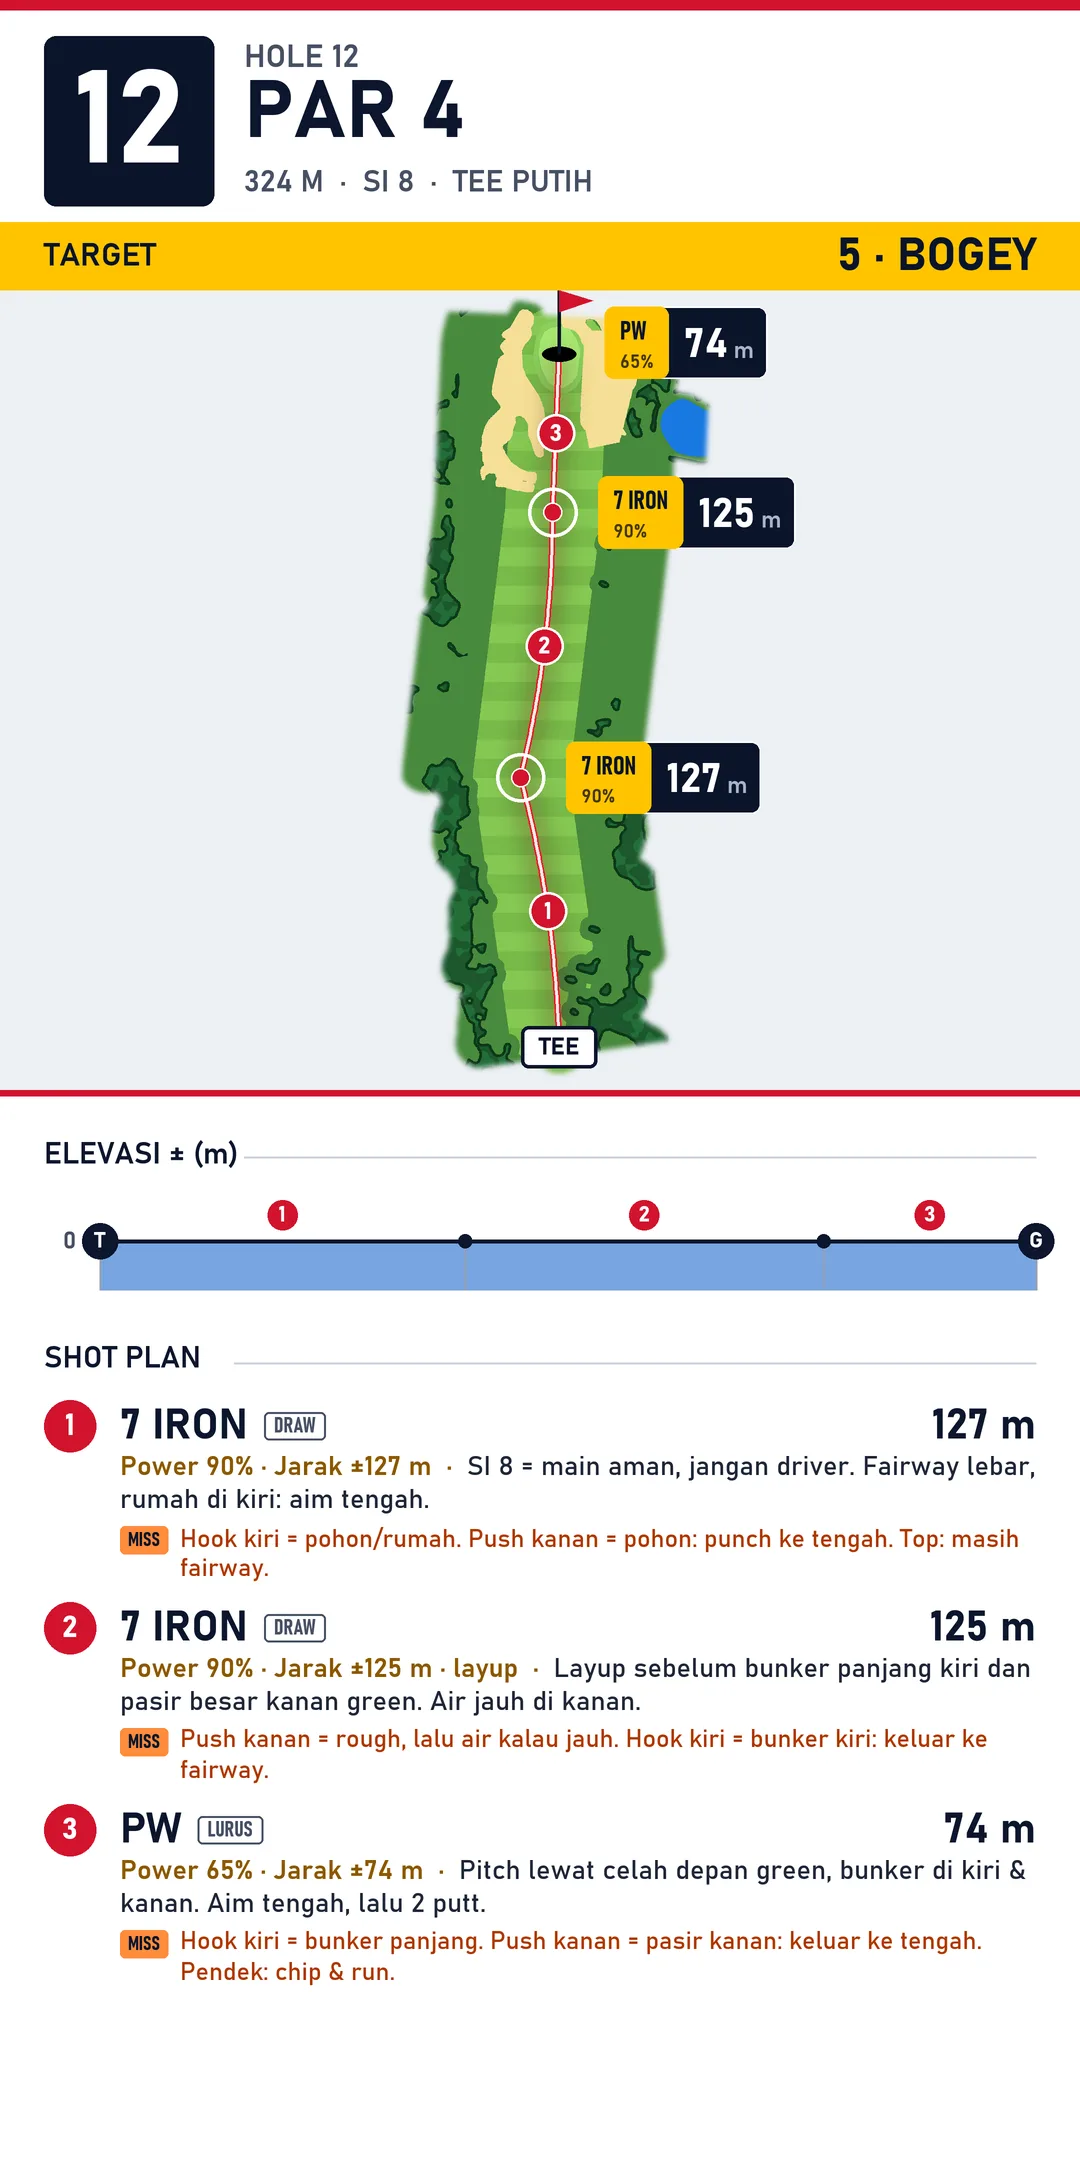
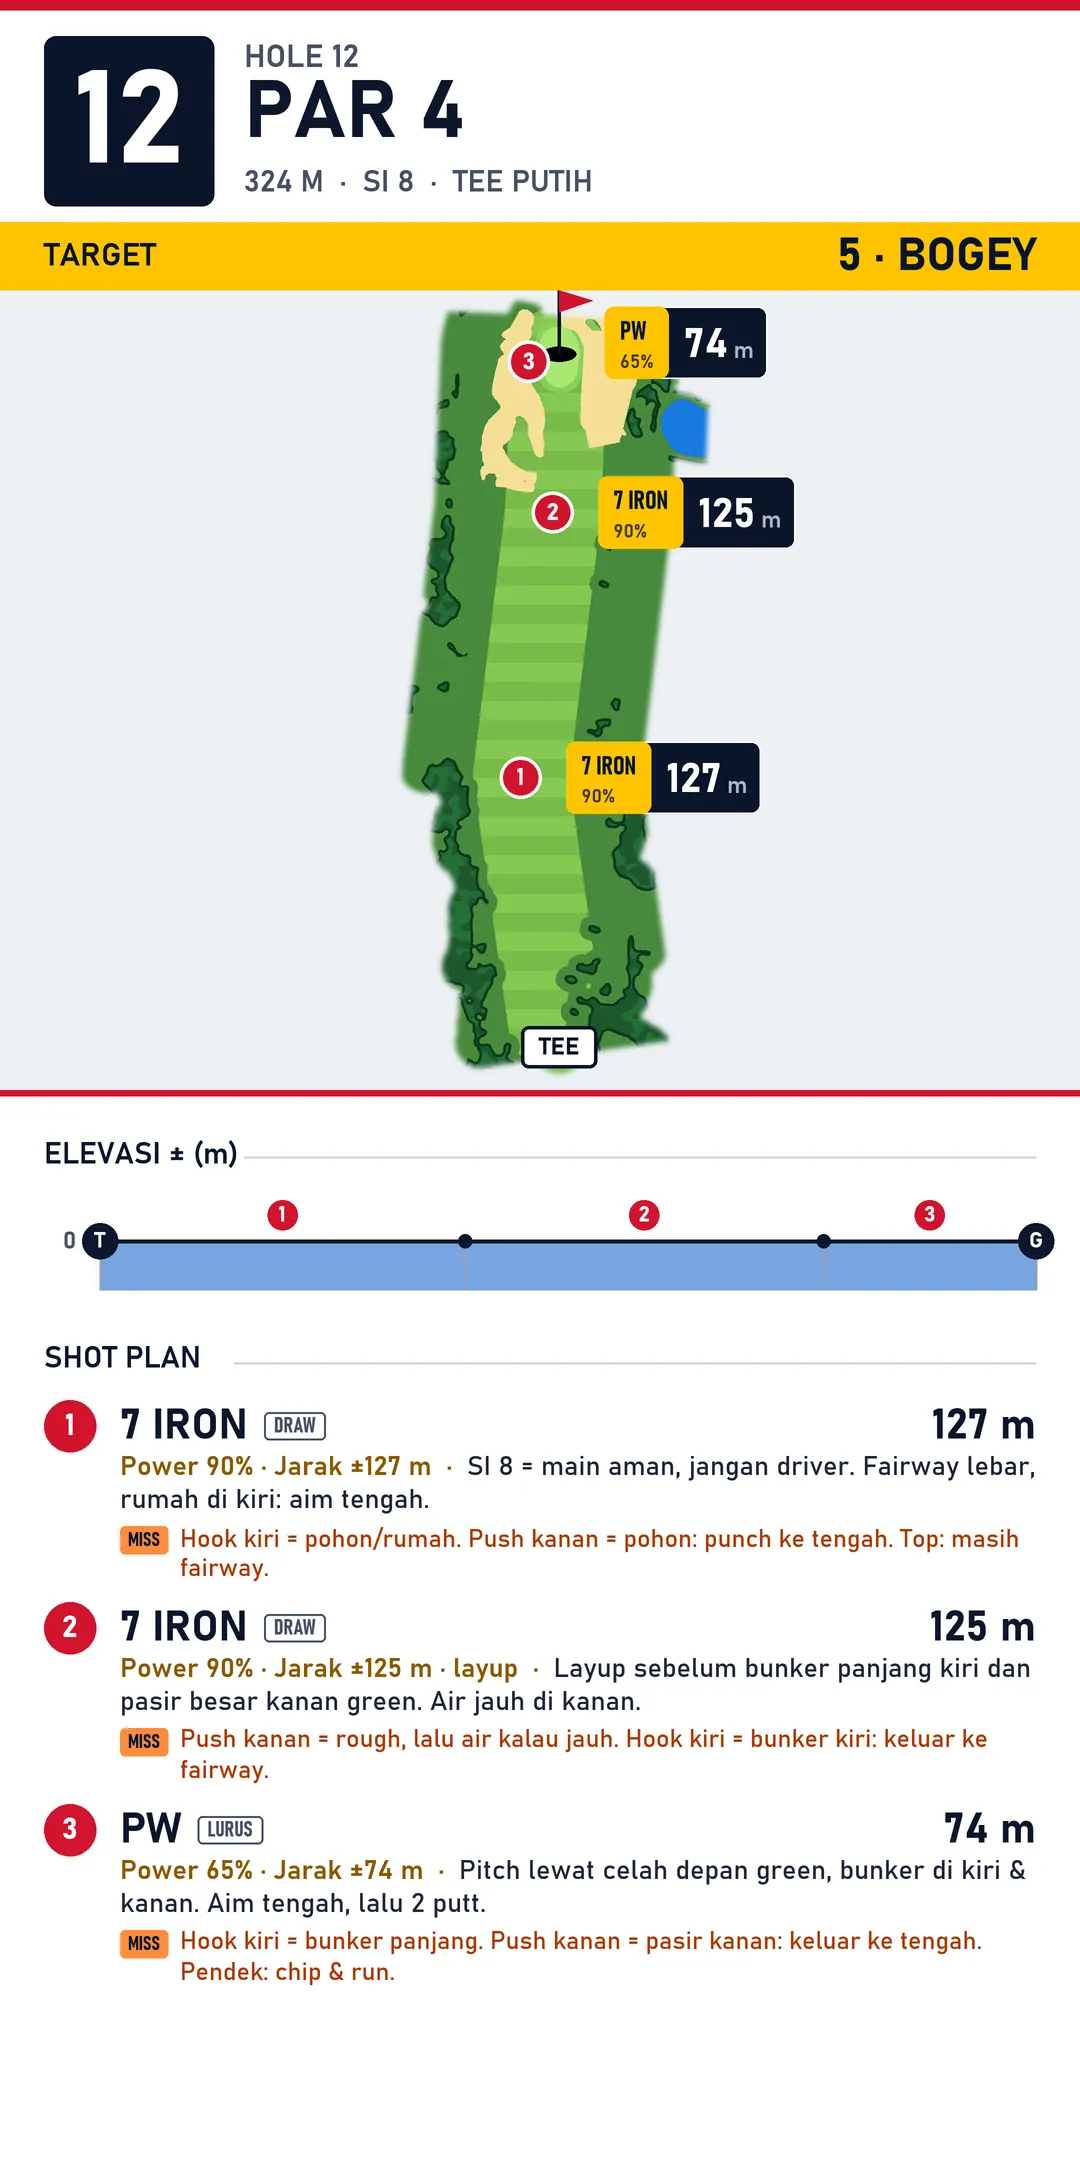
Cleaner map: no red flight lines, shot numbers on landing points, no grid, lighter ring labels

Changed region(s): [[0.4583, 0.1551, 0.55, 0.4963]]

diff --git a/index.html b/index.html
@@ -66,17 +66,14 @@ button{font:inherit;color:inherit}
 #score.ok{border-color:var(--good);color:var(--good)}#score.bad{border-color:var(--over);color:var(--over)}
 .sync{font-size:12px;color:var(--ink2);margin-top:2px;font-weight:600}
 
-/* map overlay: hazard distances, grid, rings, ball */
+/* map overlay: hazard distances, rings, ball */
 .mapwrap{position:relative;width:100%;max-width:560px}
 .ov{position:absolute;inset:0;width:100%;height:100%;display:block}
-.ov .gGrid,.ov .gRing,.ov .gHaz{display:none}
-body.t-grid .ov .gGrid,body.t-ring .ov .gRing,body.t-haz .ov .gHaz{display:inline}
-.gGrid{filter:drop-shadow(0 0 1.5px rgba(12,22,45,.85))}
-.gGrid line{stroke:#fff;stroke-opacity:.9;stroke-width:2.5}
-.gGrid line.k{stroke:#ffc400;stroke-opacity:.95;stroke-width:3}
+.ov .gRing,.ov .gHaz{display:none}
+body.t-ring .ov .gRing,body.t-haz .ov .gHaz{display:inline}
 .gRing circle{fill:none;stroke:#ffc400;stroke-width:4;stroke-dasharray:14 10}
 .gRing{filter:drop-shadow(0 0 1.5px rgba(12,22,45,.85))}
-.gl.r{fill:#ffc400;font-size:32px}
+.gl.r{fill:#ffc400;font-weight:600;font-size:24px;stroke-width:3.5px;fill-opacity:.9}
 .gl{font:800 30px var(--f-num);fill:#fff;stroke:#0c162d;stroke-width:7px;paint-order:stroke;stroke-linejoin:round}
 .ovt{font:800 34px var(--f-num);letter-spacing:.02em}
 .ovb{font:800 36px var(--f-num);fill:#0c162d}
@@ -162,7 +159,6 @@ tr.go{cursor:pointer}
   </div>
   <nav class="chips" id="chips" aria-label="Pilih hole"></nav>
   <div class="tools" id="tools">
-    <button class="tool" type="button" data-t="grid" aria-pressed="false">Grid</button>
     <button class="tool" type="button" data-t="ring" aria-pressed="false">Ring</button>
     <button class="tool" type="button" data-t="haz" aria-pressed="false">Jarak</button>
     <div class="hint">Ketuk peta = bola<br>B/A = m ke green</div>
@@ -255,7 +251,7 @@ const slider=$("slider"), chips=$("chips");
    tee/pin/land = posisi di gambar 1080x2160, hz = pusat bunker (B) / air (A), rle = peta bunker/air per kotak 10 px */
 const GEO={"1":{"top":289,"bot":1091,"scale":2.435,"tee":[591,1040],"pin":[591,362],"land":[[488,700],[580,414]],"hz":[["B",614,406],["B",562,612]],"cols":108,"rows":81,"rle":[0,1248,1,2,0,107,1,2,0,1829,1,1,0,107,1,2,0,105,1,3,0,105,1,3,0,106,1,2,0,5126]},"2":{"top":289,"bot":1091,"scale":2.121,"tee":[552,1047],"pin":[552,353],"land":[[536,825],[527,571]],"hz":[["B",476,428],["B",509,721]],"cols":108,"rows":81,"rle":[0,1021,1,1,0,106,1,2,0,106,1,1,0,107,1,1,0,106,1,2,0,105,1,3,0,105,1,2,0,106,1,1,0,2810,1,3,0,106,1,2,0,106,1,2,0,106,1,2,0,106,1,1,0,331,1,1,0,3397]},"3":{"top":289,"bot":1091,"scale":2.166,"tee":[567,1046],"pin":[566,355],"land":[[512,728],[519,504]],"hz":[["A",424,506]],"cols":108,"rows":81,"rle":[0,1016,2,1,0,25,2,1,0,81,2,2,0,106,2,2,0,107,2,1,0,106,2,2,0,105,2,3,0,104,2,4,0,104,2,4,0,103,2,5,0,103,2,5,0,103,2,5,0,102,2,6,0,102,2,5,0,102,2,6,0,101,2,7,0,100,2,6,0,102,2,5,0,103,2,4,0,104,2,3,0,105,2,1,0,5686]},"4":{"top":289,"bot":1091,"scale":2.721,"tee":[436,1035],"pin":[436,371],"land":[[643,686],[534,425]],"hz":[["B",476,432],["A",416,502],["B",718,619],["A",437,826],["A",414,965]],"cols":108,"rows":81,"rle":[0,31,2,2,0,105,2,6,0,102,2,5,0,103,2,5,0,2,2,1,0,8,1,2,0,90,2,5,0,1,2,3,0,7,1,2,0,90,2,9,0,7,1,2,0,90,2,9,0,100,2,8,0,103,2,5,0,104,2,3,0,105,2,3,0,105,2,3,0,105,2,4,1,8,0,96,2,4,1,10,0,94,2,4,0,4,1,7,0,93,2,5,0,7,1,2,0,94,2,10,0,99,2,11,0,97,2,11,0,97,2,13,0,15,1,1,0,79,2,14,0,94,2,15,0,94,2,15,0,93,2,15,0,93,2,10,0,98,2,8,0,101,2,6,0,103,2,4,0,104,2,4,0,105,2,2,0,106,2,2,0,136,1,3,0,105,1,4,0,104,1,4,0,103,1,4,0,104,1,3,0,105,1,2,0,940,2,2,0,106,2,2,0,105,2,4,0,104,2,5,0,103,2,7,0,3,2,2,0,97,2,12,0,96,2,12,0,96,2,11,0,97,2,11,0,97,2,10,0,98,2,9,0,98,2,9,0,99,2,8,0,99,2,9,0,100,2,8,0,100,2,7,0,101,2,7,0,101,2,7,0,100,2,8,0,100,2,8,0,100,2,8,0,100,2,8,0,100,2,9,0,99,2,9,0,100,2,7,0,101,2,6,0,101,2,7,0,101,2,3,0,105,2,3,0,105,2,3,0,716]},"5":{"top":289,"bot":1091,"scale":4.842,"tee":[540,992],"pin":[540,435],"land":[],"hz":[["B",604,309],["A",695,343],["B",590,483],["A",433,511],["A",651,574],["A",454,664],["B",628,991]],"cols":108,"rows":81,"rle":[0,39,2,5,0,8,1,10,0,4,2,7,0,74,2,5,0,7,1,11,0,4,2,7,0,74,2,5,0,7,1,13,0,2,2,7,0,74,2,5,0,7,1,4,0,4,1,5,0,2,2,7,0,74,2,5,0,22,2,7,0,74,2,5,0,22,2,7,0,74,2,5,0,22,2,7,0,74,2,6,0,21,2,7,0,74,2,7,0,20,2,7,0,73,2,8,0,20,2,7,0,73,2,8,0,100,2,8,0,3,1,1,0,96,2,8,0,100,2,8,0,99,2,9,0,99,2,9,0,3,1,1,0,95,2,9,0,2,1,2,0,96,2,8,0,1,1,5,0,5,1,8,0,1,2,7,0,73,2,9,1,5,0,5,1,7,0,1,2,8,0,74,2,8,0,1,1,4,0,5,1,7,2,9,0,74,2,9,1,4,0,5,1,5,0,1,2,10,0,74,2,10,1,4,0,4,1,3,0,1,2,12,0,74,2,11,1,3,0,4,1,2,2,14,0,74,2,12,1,2,0,4,1,1,2,15,0,74,2,14,0,4,2,16,0,74,2,14,0,4,2,16,0,74,2,14,0,4,2,16,0,74,2,14,0,4,2,16,0,74,2,14,0,4,2,16,0,74,2,14,0,4,2,16,0,74,2,14,0,4,2,16,0,74,2,15,0,3,2,16,0,73,2,16,0,3,2,16,0,73,2,16,0,3,2,16,0,72,2,17,0,3,2,16,0,71,2,18,0,3,2,16,0,71,2,18,0,3,2,16,0,71,2,18,0,3,2,16,0,71,2,18,0,3,2,16,0,71,2,18,0,3,2,16,0,71,2,18,0,3,2,16,0,71,2,18,0,4,2,14,0,73,2,17,0,4,2,12,0,77,2,15,0,3,2,13,0,79,2,13,0,3,2,13,0,80,2,12,0,3,2,12,0,81,2,12,0,3,2,12,0,81,2,12,0,3,2,12,0,81,2,12,0,3,2,12,0,81,2,12,0,3,2,12,0,81,2,12,0,3,2,12,0,81,2,12,0,3,2,12,0,81,2,12,0,3,2,12,0,81,2,12,0,3,2,12,0,81,2,12,0,3,2,12,0,81,2,11,0,4,2,12,0,81,2,11,0,4,2,12,0,81,2,11,0,4,2,11,0,83,2,10,0,4,2,11,0,83,2,10,0,4,2,10,0,85,2,9,0,4,2,8,0,117,1,1,0,838,1,1,0,8,1,6,0,102,1,7,0,1123]},"6":{"top":289,"bot":1091,"scale":1.685,"tee":[532,1056],"pin":[531,340],"land":[[545,803],[548,559]],"hz":[["B",515,421]],"cols":108,"rows":81,"rle":[0,1455,1,1,0,7292]},"7":{"top":289,"bot":1090,"scale":5.676,"tee":[540,976],"pin":[540,460],"land":[],"hz":[["B",637,555],["B",437,646]],"cols":108,"rows":81,"rle":[0,2657,1,1,0,2,1,2,0,100,1,10,0,97,1,8,0,1,1,2,0,76,1,7,0,13,1,5,0,2,1,2,0,2,1,1,0,72,1,13,0,11,1,1,0,2,1,2,0,2,1,2,0,2,1,1,0,71,1,7,0,2,1,7,0,9,1,1,0,2,1,2,0,2,1,2,0,2,1,1,0,70,1,18,0,8,1,1,0,2,1,6,0,1,1,1,0,71,1,18,0,9,1,1,0,1,1,3,0,2,1,2,0,71,1,16,0,2,1,1,0,9,1,5,0,75,1,16,0,1,1,2,0,11,1,5,0,73,1,18,0,16,1,2,0,72,1,18,0,90,1,17,0,92,1,15,0,95,1,13,0,99,1,8,0,99,1,9,0,98,1,8,0,102,1,3,0,4169]},"8":{"top":289,"bot":1091,"scale":2.339,"tee":[519,1043],"pin":[517,358],"land":[[569,697],[510,404]],"hz":[["B",550,418],["B",519,691],["B",628,849]],"cols":108,"rows":81,"rle":[0,1459,1,1,0,2911,1,2,0,1520,1,2,0,106,1,3,0,106,1,2,0,106,1,2,0,105,1,3,0,105,1,1,0,2314]},"9":{"top":289,"bot":980,"scale":1.443,"tee":[574,950],"pin":[574,333],"land":[[528,737],[505,593],[519,451]],"hz":[["B",607,363],["A",590,388],["A",560,533],["A",631,816],["A",648,951]],"cols":108,"rows":70,"rle":[0,269,1,1,0,106,1,2,0,106,1,1,0,8,1,1,0,98,1,1,0,8,1,1,0,97,1,2,0,7,1,2,0,106,1,2,0,106,1,1,0,105,2,2,0,2,2,1,0,103,2,2,0,107,2,1,0,1,2,1,0,533,2,1,0,107,2,1,0,107,2,1,0,107,2,2,0,106,2,4,0,103,2,4,0,104,2,4,0,104,2,4,0,104,2,4,0,104,2,4,0,104,2,4,0,104,2,1,0,107,2,1,0,107,2,1,0,107,2,1,0,107,2,1,0,107,2,1,0,107,2,1,0,107,2,4,0,104,2,5,0,103,2,5,0,104,2,4,0,104,2,4,0,104,2,4,0,104,2,4,0,105,2,2,0,106,2,1,0,107,2,1,0,650,2,2,0,107,2,2,0,106,2,4,0,105,2,4,0,105,2,3,0,106,2,2,0,107,2,1,0,757,2,1,0,106,2,2,0,105,2,3,0,104,2,4,0,104,2,4,0,104,2,3,0,105,2,3,0,150]},"10":{"top":289,"bot":1091,"scale":2.341,"tee":[556,1042],"pin":[557,360],"land":[[538,697],[522,444]],"hz":[["A",606,302],["B",575,390],["A",656,563],["B",498,563],["B",532,931]],"cols":108,"rows":81,"rle":[0,59,2,5,0,103,2,5,0,742,1,1,0,114,1,1,0,2,2,1,0,104,1,2,0,1,2,3,0,104,2,4,0,861,2,6,0,102,2,6,0,103,2,6,0,102,2,6,0,103,2,6,0,102,2,6,0,89,1,2,0,11,2,7,0,88,1,2,0,11,2,7,0,88,1,2,0,11,2,7,0,88,1,2,0,11,2,7,0,89,1,1,0,11,2,7,0,102,2,6,0,88,1,2,0,12,2,6,0,88,1,3,0,14,2,3,0,89,1,2,0,15,2,2,0,2905,1,2,0,424,1,2,0,104,1,2,0,1676]},"11":{"top":289,"bot":1091,"scale":1.722,"tee":[560,1055],"pin":[559,342],"land":[[520,796],[559,546]],"hz":[["A",593,912]],"cols":108,"rows":81,"rle":[0,6432,2,1,0,105,2,3,0,105,2,3,0,104,2,5,0,103,2,4,0,104,2,3,0,105,2,3,0,105,2,3,0,106,2,2,0,106,2,2,0,106,2,2,0,106,2,1,0,865,2,1,0,105,2,4,0,154]},"12":{"top":289,"bot":1091,"scale":2.139,"tee":[559,1046],"pin":[559,354],"land":[[520,777],[552,512]],"hz":[["B",516,396],["A",683,423]],"cols":108,"rows":81,"rle":[0,268,1,1,0,106,1,2,0,3,1,4,0,99,1,2,0,5,1,2,0,98,1,2,0,6,1,2,0,98,1,2,0,6,1,2,0,98,1,2,0,6,1,2,0,98,1,2,0,6,1,3,0,96,1,4,0,5,1,5,0,94,1,5,0,4,1,5,0,95,1,4,0,4,1,5,0,4,2,2,0,89,1,4,0,4,1,5,0,3,2,4,0,87,1,2,0,2,1,1,0,4,1,4,0,4,2,4,0,86,1,3,0,8,1,3,0,4,2,4,0,86,1,2,0,9,1,2,0,6,2,3,0,86,1,2,0,19,2,1,0,86,1,3,0,105,1,5,0,105,1,3,0,6643]},"13":{"top":289,"bot":1091,"scale":2.104,"tee":[509,1048],"pin":[510,353],"land":[[569,752],[532,500]],"hz":[["B",559,386],["A",426,499],["A",477,806]],"cols":108,"rows":81,"rle":[0,908,2,2,0,105,2,3,0,9,1,2,0,94,2,3,0,8,2,1,0,1,1,1,0,1,1,2,0,91,2,3,0,3,2,1,0,4,2,1,0,4,1,1,0,90,2,4,0,3,2,1,0,4,2,1,0,95,2,4,0,3,2,1,0,99,2,5,0,3,2,1,0,99,2,5,0,103,2,6,0,101,2,7,0,101,2,7,0,99,2,9,0,100,2,8,0,100,2,8,0,100,2,7,0,102,2,6,0,102,2,6,0,103,2,5,0,103,2,6,0,103,2,5,0,104,2,5,0,103,2,6,0,102,2,6,0,102,2,7,0,101,2,8,0,101,2,7,0,101,2,7,0,101,2,7,0,101,2,6,0,102,2,6,0,102,2,5,0,103,2,5,0,103,2,5,0,103,2,4,0,104,2,4,0,104,2,4,0,104,2,5,0,103,2,5,0,102,2,7,0,101,2,7,0,101,2,7,0,101,2,8,0,100,2,9,0,100,2,8,0,100,2,9,0,99,2,10,0,98,2,10,0,98,2,10,0,99,2,9,0,99,2,9,0,100,2,8,0,101,2,7,0,101,2,6,0,102,2,6,0,102,2,6,0,102,2,5,0,4,2,1,0,98,2,5,0,4,2,1,0,98,2,5,0,4,2,1,0,98,2,5,0,103,2,5,0,103,2,5,0,103,2,4,0,105,2,3,0,105,2,3,0,105,2,2,0,107,2,1,0,814]},"14":{"top":289,"bot":1091,"scale":4.47,"tee":[540,1000],"pin":[540,424],"land":[],"hz":[["B",536,331],["B",506,506]],"cols":108,"rows":81,"rle":[0,267,1,5,0,102,1,7,0,101,1,7,0,102,1,5,0,104,1,3,0,3,1,3,0,104,1,5,0,103,1,5,0,103,1,2,0,1179,1,2,0,105,1,4,0,104,1,4,0,105,1,3,0,106,1,2,0,5520,1,1,0,107,1,2,0,106,1,3,0,105,1,3,0,256]},"15":{"top":289,"bot":1091,"scale":2.002,"tee":[532,1050],"pin":[532,350],"land":[[547,749],[541,510]],"hz":[["A",479,317],["A",644,814],["A",644,1024]],"cols":108,"rows":81,"rle":[0,46,2,6,0,101,2,7,0,101,2,6,0,102,2,5,0,104,2,4,0,104,2,4,0,104,2,4,0,104,2,4,0,104,2,4,0,103,2,4,0,104,2,4,0,104,2,4,0,104,2,4,0,103,2,5,0,103,2,4,0,103,2,4,0,104,2,3,0,102,2,6,0,102,2,6,0,102,2,4,0,3366,2,6,0,101,2,7,0,101,2,7,0,102,2,5,0,104,2,3,0,105,2,3,0,105,2,3,0,105,2,3,0,106,2,2,0,106,2,2,0,106,2,2,0,106,2,2,0,106,2,3,0,105,2,3,0,105,2,3,0,105,2,3,0,105,2,2,0,106,2,2,0,106,2,2,0,106,2,2,0,106,2,2,0,106,2,3,0,103,2,5,0,103,2,4,0,105,2,3,0,105,2,3,0,105,2,3,0,105,2,3,0,82,2,1,0,22,2,3,0,82,2,3,0,20,2,3,0,150]},"16":{"top":289,"bot":1091,"scale":4.296,"tee":[480,1004],"pin":[480,418],"land":[[599,640]],"hz":[["A",289,376],["B",430,482],["A",336,543],["A",381,752],["A",369,976]],"cols":108,"rows":81,"rle":[0,22,2,18,0,89,2,20,0,88,2,20,0,87,2,20,0,88,2,19,0,89,2,18,0,89,2,19,0,2,1,2,0,85,2,19,0,2,1,3,0,84,2,19,0,2,1,2,0,85,2,19,0,1,1,3,0,85,2,18,0,2,1,3,0,86,2,17,0,2,1,3,0,87,2,16,0,2,1,3,0,88,2,16,1,4,0,88,2,16,1,5,0,88,2,15,0,1,1,4,0,88,2,15,0,2,1,3,0,89,2,15,0,1,1,4,0,88,2,15,0,1,1,6,0,86,2,16,1,6,0,87,2,15,0,1,1,4,0,88,2,16,0,1,1,3,0,88,2,18,0,90,2,22,0,86,2,23,0,85,2,23,0,85,2,23,0,86,2,22,0,86,2,22,0,86,2,23,0,85,2,23,0,86,2,13,0,96,2,11,0,97,2,11,0,98,2,10,0,98,2,10,0,98,2,10,0,98,2,10,0,98,2,10,0,98,2,20,0,88,2,20,0,88,2,20,0,88,2,20,0,89,2,19,0,89,2,19,0,89,2,19,0,89,2,19,0,90,2,18,0,90,2,17,0,91,2,15,0,92,2,14,0,94,2,14,0,94,2,14,0,94,2,14,0,94,2,15,0,93,2,15,0,88,2,1,0,5,2,14,0,85,2,5,0,3,2,16,0,83,2,7,0,2,2,17,0,82,2,26,0,82,2,26,0,81,2,26,0,82,2,24,0,84,2,23,0,88,2,5,0,1,2,13,0,97,2,11,0,97,2,11,0,97,2,12,0,96,2,12,0,96,2,12,0,96,2,13,0,95,2,13,0,94,2,14,0,94,2,10,0,98,2,9,0,99,2,9,0,99,2,8,0,100,2,8,0,100,2,8,0,101,2,7,0,178]},"17":{"top":289,"bot":1091,"scale":2.221,"tee":[540,1045],"pin":[539,357],"land":[[540,690]],"hz":[["A",411,307],["B",590,392],["B",497,643],["A",678,924],["A",669,1065]],"cols":108,"rows":81,"rle":[0,40,2,2,0,106,2,3,0,104,2,3,0,105,2,3,0,105,2,2,0,106,2,1,0,107,2,1,0,450,1,2,0,105,1,2,0,1834,1,1,0,108,1,2,0,106,1,2,0,105,1,4,0,104,1,4,0,96,1,2,0,6,1,1,0,1,1,1,0,96,1,3,0,105,1,3,0,106,1,2,0,106,1,2,0,106,1,2,0,2069,2,1,0,107,2,1,0,107,2,1,0,106,2,2,0,106,2,2,0,106,2,2,0,105,2,3,0,105,2,3,0,106,2,2,0,863,2,1,0,106,2,2,0,105,2,3,0,80,2,2,0,22,2,4,0,78,2,4,0,22,2,4,0,78,2,4,0,22,2,4,0,78,2,5,0,21,2,4,0,147]},"18":{"top":289,"bot":980,"scale":1.45,"tee":[462,950],"pin":[462,333],"land":[[566,770],[603,642],[616,465]],"hz":[["A",388,314],["B",440,405],["A",692,562],["A",608,855]],"cols":108,"rows":70,"rle":[0,38,2,5,0,102,2,6,0,102,2,5,0,102,2,5,0,103,2,4,0,104,2,4,0,105,2,3,0,1,1,2,0,102,2,3,0,1,1,2,0,102,2,3,0,1,1,2,0,103,2,2,0,1,1,3,0,102,2,2,0,2,1,3,0,102,2,2,0,1,1,4,0,22,2,1,0,79,2,2,0,1,1,3,0,104,2,1,0,133,2,1,0,105,2,4,0,106,2,2,0,107,2,2,0,105,2,3,0,105,2,3,0,94,2,2,0,10,2,2,0,92,2,5,0,8,2,3,0,92,2,5,0,9,2,2,0,93,2,4,0,9,2,2,0,94,2,3,0,9,2,2,0,93,2,4,0,8,2,3,0,93,2,4,0,8,2,3,0,92,2,5,0,7,2,4,0,92,2,5,0,7,2,4,0,93,2,4,0,8,2,3,0,94,2,2,0,9,2,3,0,94,2,2,0,9,2,3,0,105,2,3,0,105,2,2,0,106,2,2,0,105,2,3,0,105,2,3,0,105,2,3,0,105,2,3,0,105,2,2,0,106,2,2,0,105,2,3,0,105,2,3,0,105,2,2,0,856,2,1,0,107,2,4,0,104,2,4,0,104,2,3,0,104,2,4,0,104,2,4,0,103,2,5,0,103,2,4,0,103,2,5,0,103,2,4,0,103,2,4,0,104,2,4,0,103,2,4,0,104,2,3,0,104,2,3,0,104,2,3,0,103,2,5,0,103,2,4,0,161]}};
 const TKEY="ik-tools-v1", BKEY="ik-ball-v1", CELL=10;
-let tools={grid:0,ring:0,haz:1}, balls={};
+let tools={ring:0,haz:1}, balls={};
 try{Object.assign(tools,JSON.parse(localStorage.getItem(TKEY)||"{}"));}catch(e){}
 try{balls=JSON.parse(localStorage.getItem(BKEY)||"{}")||{};}catch(e){}
 Object.keys(GEO).forEach(k=>{const g=GEO[k];g.cells=new Uint8Array(g.cols*g.rows);let p=0;for(let i=0;i<g.rle.length;i+=2){g.cells.fill(g.rle[i],p,p+g.rle[i+1]);p+=g.rle[i+1];}});
@@ -276,21 +272,17 @@ function makeOverlay(i){
   const g=GEO[i+1],s=g.scale,step=gridStep(g),pxs=step*s,P=g.pin;
   const svg=document.createElementNS("http://www.w3.org/2000/svg","svg");
   svg.setAttribute("viewBox","0 0 1080 2160");svg.setAttribute("preserveAspectRatio","none");svg.setAttribute("class","ov");svg.setAttribute("aria-hidden","true");
-  let grid="",ring="",haz="";
-  for(let k=-10;k<=40;k++){const y=P[1]+k*pxs;if(y<g.top+4||y>g.bot-4)continue;
-    grid+='<line class="'+(k===0?"k":"")+'" x1="0" x2="1080" y1="'+y.toFixed(1)+'" y2="'+y.toFixed(1)+'"/>';
-    if(k>0)grid+='<text class="gl" x="10" y="'+(y-9).toFixed(0)+'">'+k*step+'</text>';}
-  for(let k=-14;k<=14;k++){const x=P[0]+k*pxs;if(x<2||x>1078)continue;grid+='<line class="'+(k===0?"k":"")+'" x1="'+x.toFixed(1)+'" x2="'+x.toFixed(1)+'" y1="'+g.top+'" y2="'+g.bot+'"/>';}
+  let ring="",haz="";
   const far=Math.hypot(g.tee[0]-P[0],g.tee[1]-P[1])+pxs;
   for(let k=1;k*pxs<=far;k++){const r=k*pxs;ring+='<circle cx="'+P[0]+'" cy="'+P[1]+'" r="'+r.toFixed(1)+'"/>';
     const lx=P[0]-r*.5,ly=P[1]+r*.866;if(ly>g.top+30&&ly<g.bot-30)ring+='<text class="gl r" text-anchor="middle" x="'+lx.toFixed(0)+'" y="'+ly.toFixed(0)+'">'+k*step+'</text>';}
   g.hz.forEach(z=>{const d=Math.round(dm(g,z[1],z[2],P[0],P[1]));haz+=pill(z[1],z[2],z[0]+" "+d,z[0]==="A"?"#1f7be8":"#ffe9a8",z[0]==="A"?"#fff":"#0c162d");});
   svg.innerHTML='<defs><clipPath id="clip'+i+'"><rect x="0" y="'+g.top+'" width="1080" height="'+(g.bot-g.top)+'"/></clipPath></defs>'+
-    '<g clip-path="url(#clip'+i+')"><g class="gGrid">'+grid+'</g><g class="gRing">'+ring+'</g></g><g class="gHaz">'+haz+'</g><g class="gBall"></g>'+
+    '<g clip-path="url(#clip'+i+')"><g class="gRing">'+ring+'</g></g><g class="gHaz">'+haz+'</g><g class="gBall"></g>'+
     '<rect class="hit" x="0" y="'+g.top+'" width="1080" height="'+(g.bot-g.top)+'" fill="transparent" style="pointer-events:all"/>';
   svg.querySelector(".hit").addEventListener("click",e=>{const r=svg.getBoundingClientRect();setBall(i+1,(e.clientX-r.left)/r.width*1080,(e.clientY-r.top)/r.height*2160);});
   return svg;}
-function applyTools(){document.body.classList.toggle("t-grid",!!tools.grid);document.body.classList.toggle("t-ring",!!tools.ring);document.body.classList.toggle("t-haz",!!tools.haz);
+function applyTools(){document.body.classList.toggle("t-ring",!!tools.ring);document.body.classList.toggle("t-haz",!!tools.haz);
   document.querySelectorAll(".tool").forEach(b=>{const on=!!tools[b.dataset.t];b.classList.toggle("on",on);b.setAttribute("aria-pressed",on);});}
 document.querySelectorAll(".tool").forEach(b=>b.addEventListener("click",()=>{tools[b.dataset.t]=tools[b.dataset.t]?0:1;try{localStorage.setItem(TKEY,JSON.stringify(tools));}catch(e){}applyTools();}));
 function saveBalls(){try{localStorage.setItem(BKEY,JSON.stringify(balls));}catch(e){}}
